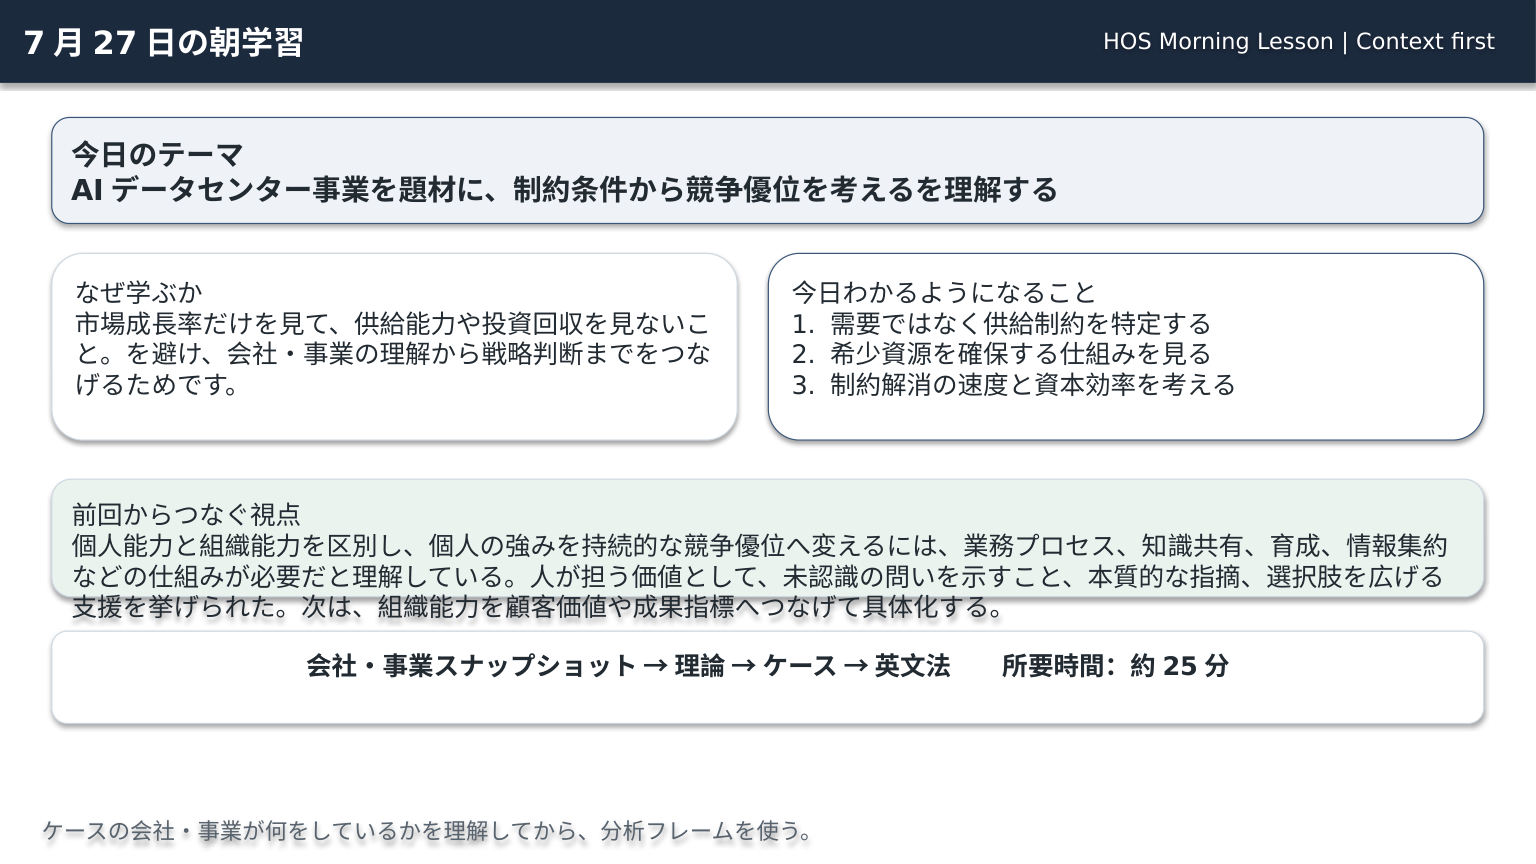
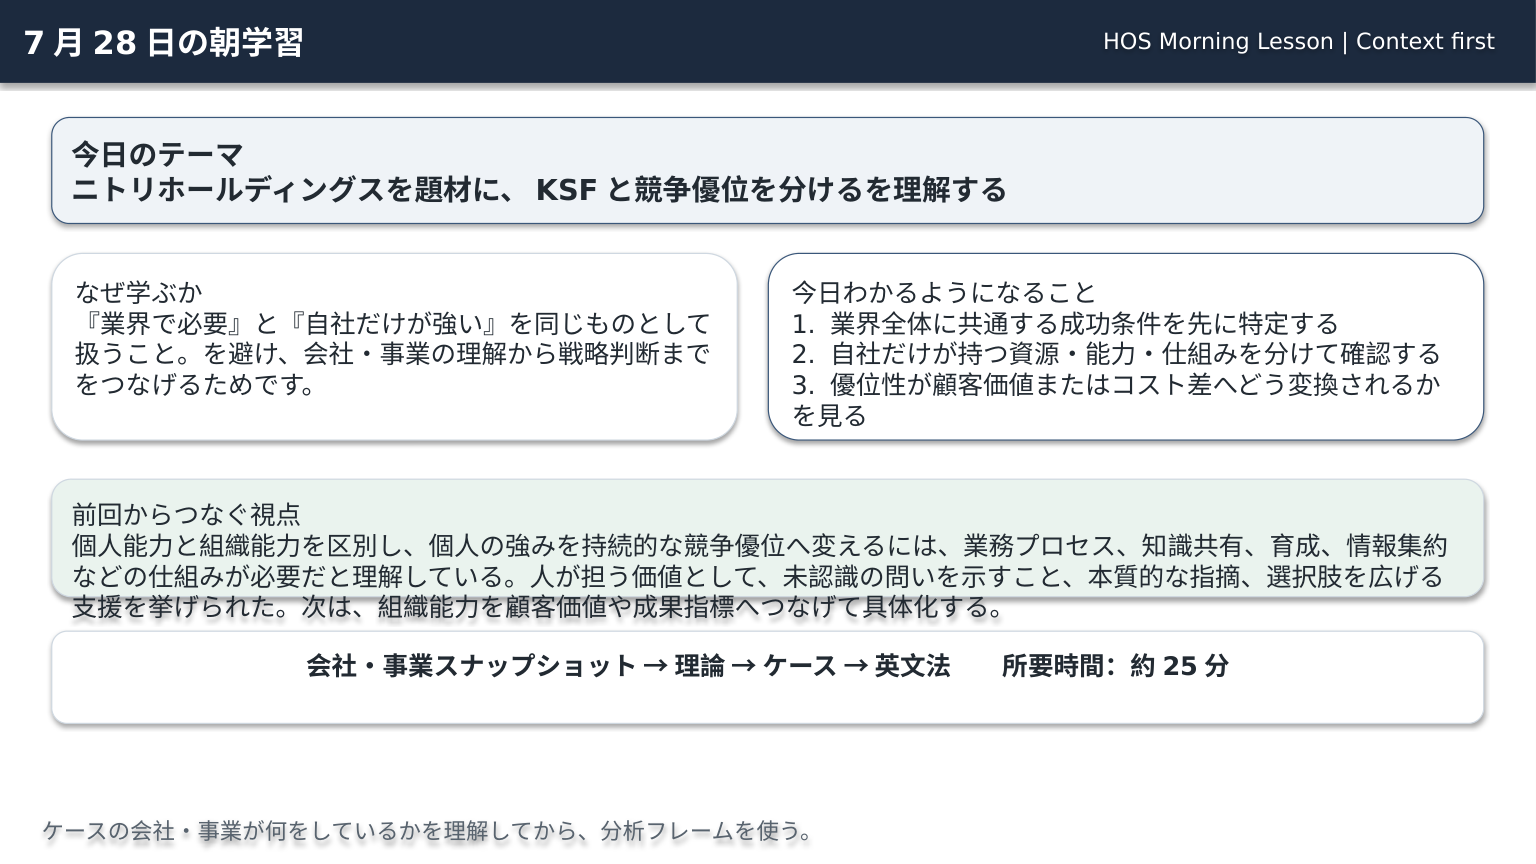
Generate growth lesson 2026-07-28

diff --git a/outputs/growth-menu/latest_notification.md b/outputs/growth-menu/latest_notification.md
@@ -1,6 +1,6 @@
-## 7月27日の朝学習PDF
+## 7月28日の朝学習PDF
 
-今日は『AIデータセンター事業 × 制約条件から競争優位を考える』を、会社・事業の全体像から学びます。
+今日は『ニトリホールディングス × KSFと競争優位を分ける』を、会社・事業の全体像から学びます。
 
 所要時間：約25分
 
